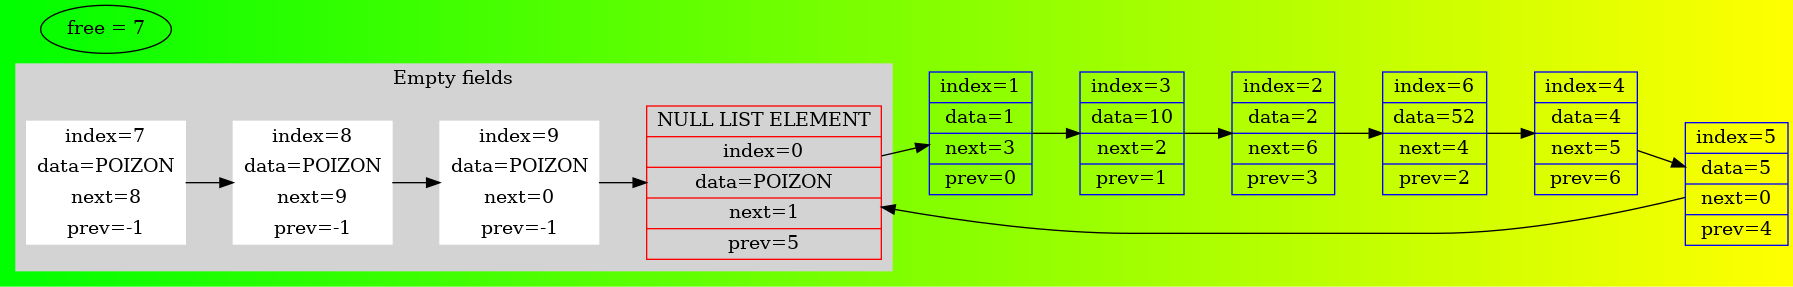
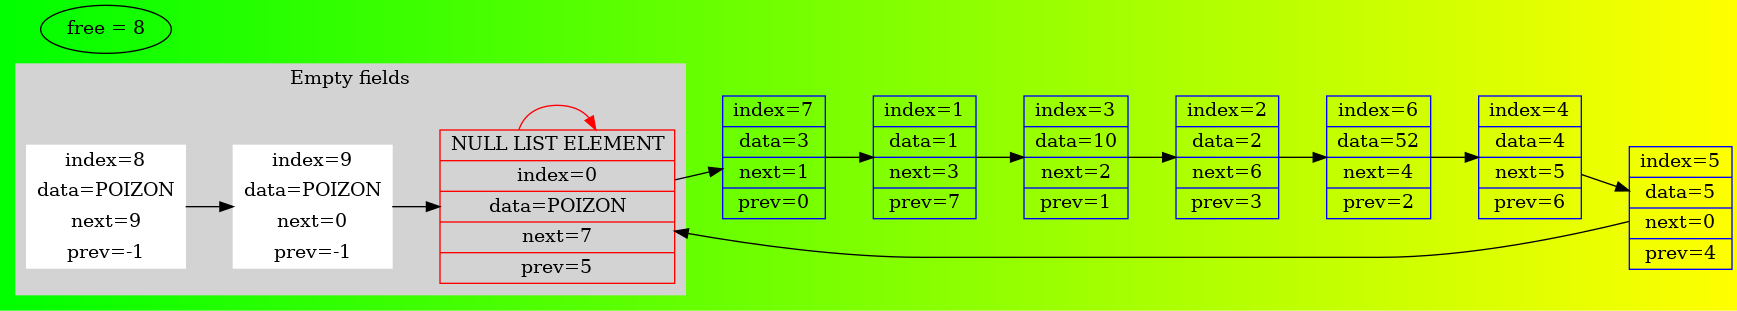
More functions

Changed region(s): [[0.0, 0.0, 1.0, 0.9756], [0.8705, 0.7526, 0.9016, 0.7805], [0.5285, 0.7526, 0.5596, 0.7805]]

diff --git a/list.cpp b/list.cpp
@@ -29,10 +29,12 @@ List C_tor()
 
 void Fill_in(List* list)
 {
+    assert(list);
+
     for(size_t i = 1; i < list -> size - 1; i++)
     {
         list -> node[i].data = POIZON;
-        list -> node[i].next = i + 1;
+        list -> node[i].next = (int)i + 1;
         list -> node[i].prev = -1;
     }
 
@@ -42,7 +44,7 @@ void Fill_in(List* list)
 }
 
 
-Errors Push_elem_after_num(List* list, list_elem new_elem, size_t num)
+Errors Insert_elem_after_num(List* list, list_elem new_elem, size_t num)
 {
     assert(list);
 
@@ -57,11 +59,11 @@ Errors Push_elem_after_num(List* list, list_elem new_elem, size_t num)
 
     list -> node[new_elem_pos].next = list -> node[num].next;
 
-    list -> node[new_elem_pos].prev = num;
+    list -> node[new_elem_pos].prev = (list_elem)num;
 
-    list -> node[num].next = new_elem_pos;
+    list -> node[num].next = (list_elem)new_elem_pos;
 
-    list -> node[list -> node[new_elem_pos].next].prev = new_elem_pos;
+    list -> node[list -> node[new_elem_pos].next].prev = (list_elem)new_elem_pos;
 
     list -> free = next_free_val;
 
@@ -70,25 +72,79 @@ Errors Push_elem_after_num(List* list, list_elem new_elem, size_t num)
     return ALL_OKEY;
 }
 
-Errors Push_first_elem(List* list, list_elem new_elem)
+Errors Insert_first_elem(List* list, list_elem new_elem)
 {
-    Push_elem_after_num(list, new_elem, 0);
+    assert(list);
+
+    Insert_elem_after_num(list, new_elem, 0);
 
     return ALL_OKEY;
 }
 
-Errors Push_elem_before_num(List* list, list_elem new_elem, size_t num)
+Errors Insert_elem_before_num(List* list, list_elem new_elem, size_t num)
 {
-    Push_elem_after_num(list, new_elem, list -> node[num].prev);
+    assert(list);
+
+    Insert_elem_after_num(list, new_elem, list -> node[num].prev);
 
     return ALL_OKEY;
 }
 
-Errors Push_last_elem(List* list, list_elem new_elem)
+Errors Insert_last_elem(List* list, list_elem new_elem)
 {
-    Push_elem_before_num(list, new_elem, 0);
+    assert(list);
+
+    Insert_elem_before_num(list, new_elem, 0);
 
     return ALL_OKEY;
+}
+
+int* Ptr_on_elem_after_num(List* list, size_t num)
+{
+    assert(list);
+    return &(list -> node[num].next);
+}
+
+int* Ptr_on_elem_before_num(List* list, size_t num)
+{
+    assert(list);
+    return &(list -> node[num].prev);
+}
+
+int* Ptr_on_last_elem(List* list)
+{
+    assert(list);
+    return &(list -> node[0].prev);
+}
+
+
+int* Ptr_on_first_elem(List* list)
+{
+    assert(list);
+    return &(list -> node[0].next);
+}
+
+void Search_elem_by_val(List* list, unsigned int val)
+{
+    assert(list);
+
+    int flag = 0;
+    size_t num_elem = 1;
+    int i = list -> node[0].next;
+
+    while(list -> node[i].next != 0)
+    {
+        if(list -> node[i].data == val)
+        {
+            printf("Your element index: %d\nYour element num in turn: %zu\n", i, num_elem);
+            ++flag;
+        }
+        ++num_elem;
+        i = list -> node[i].next;
+    }
+
+    if(flag == 0)
+        printf("Your element is not in list\n");
 }
 
 Errors Pop_elem(List* list, size_t num)
@@ -104,7 +160,7 @@ Errors Pop_elem(List* list, size_t num)
 
     list -> node[list -> node[num].next].prev = list -> node[num].prev;
 
-    list -> node[num].next = list -> free;
+    list -> node[num].next = (list_elem)list -> free;
 
     list -> free = num;
 
@@ -115,52 +171,58 @@ Errors Pop_elem(List* list, size_t num)
     return ALL_OKEY;
 }
 
-
 void dump(List* list)
 {
-    FILE* f_dot = fopen("list.dot", "wr");
-
+    printf("-----------------LIST------------------\n");
     for(size_t i = 0; i < list -> tail; i++)
     {
         if(list -> node[i].data == POIZON)
-            fprintf(f_dot, "%d ", 0);
+            printf("    %d  ", 0);
         else
-            fprintf(f_dot, "node[%d ", list -> node[i].data);
+            printf("    %d  ", list -> node[i].data);
     }
 
-    putc('\n', f_dot);
+    putchar('\n');
 
     for(size_t i = 0; i < list -> tail; i++)
     {
-        fprintf(f_dot, "%d ", list -> node[i].next);
+        printf("    %d  ", list -> node[i].next);
     }
 
-    putc('\n', f_dot);
+    putchar('\n');
 
     for(size_t i = 0; i < list -> tail; i++)
     {
         if(list -> node[i].prev < 0)
-            fprintf(f_dot, "%d ", list -> node[i].prev);
+            printf("   %d  ", list -> node[i].prev);
         else
-            fprintf(f_dot, "%d ", list -> node[i].prev);
+            printf("    %d  ", list -> node[i].prev);
     }
 
-    putc('\n', f_dot);
+    putchar('\n');
 
-    // printf("head = %zu\ntail = %zu\nfree = %zu\n", list -> head, list -> tail, list -> free);
+    printf("head = %zu\ntail = %zu\nfree = %zu\n", list -> head, list -> tail, list -> free);
 
-    fclose(f_dot);
+    printf("-----------------LIST------------------\n\n\n");
 }
 
 void dump_to_dot(List* list)
 {
-    FILE* f_dot = fopen("output/list.dot", "wr");
+    FILE* f_dot = fopen("output/list.dot", "w");
+
+    assert(f_dot);
+    assert(list);
+    if(ferror(f_dot))
+        fprintf(stderr, "FILE OPEN ERROR!!!\n");
+
 
     fprintf(f_dot, "digraph LIST {\n\trankdir=LR;\n\tbgcolor = \"green:yellow\";\n");
 
-    fprintf(f_dot, "\tnode0 [shape=record, color=red, label=\" NULL LIST ELEMENT | index=0 | data=POIZON | next=%d | prev=%d \" ];\n",
-                                                                                            list -> node[0].next,
-                                                                                            list -> node[0].prev);
+    fprintf(f_dot, "\tnode0 [shape=record, color=red,"
+                   "label=\" NULL LIST ELEMENT | index=0 | data=POIZON | next=%d | prev=%d \" ];\n"
+                   "\tnode0-> node0[color=red];\n",
+                   list -> node[0].next, list -> node[0].prev);
+
     size_t i = 0;
 
     while(list -> node[i].next != 0)
@@ -169,23 +231,23 @@ void dump_to_dot(List* list)
 
         i = list -> node[i].next;
 
-        fprintf(f_dot, "\tnode%zu [shape=record, color=blue, label=\" index=%d | data=%d | next=%d | prev=%d \" ];\n", i, i,
-                                                                                                    list -> node[i].data,
-                                                                                                    list -> node[i].next,
-                                                                                                    list -> node[i].prev);
+        fprintf(f_dot, "\tnode%zu [shape=record, color=blue,"
+                       "label=\" index=%d | data=%d | next=%d | prev=%d \" ];\n",
+                       i, i, list -> node[i].data, list -> node[i].next, list -> node[i].prev);
     }
 
-    fprintf(f_dot, "\tsubgraph cluster0 {\n\t\tnode [style=filled,color=white];\n\t\tstyle=filled;\n\t\tcolor=lightgrey;\n");
+    fprintf(f_dot, "\tsubgraph cluster0 {\n\t\tnode [style=filled,color=white];\n"
+                   "\t\tstyle=filled;\n\t\tcolor=lightgrey;\n");
 
     for(size_t i = 0; i < list -> size; i++)
     {
         if(list -> node[i].prev == -1)
         {
-            fprintf(f_dot, "\t\tnode%zu -> node%zu;\n", i, list -> node[i].next);
+            fprintf(f_dot, "\t\tnode%zu -> node%d;\n", i, list -> node[i].next);
 
-            fprintf(f_dot, "\t\tnode%zu [shape=record, color=white, label=\" index=%d | data=POIZON | next=%d | prev=%d \" ];\n", i, i,
-                                                                                                    list -> node[i].next,
-                                                                                                    list -> node[i].prev);
+            fprintf(f_dot, "\t\tnode%zu [shape=record, color=white,"
+                           "label=\" index=%zu | data=POIZON | next=%d | prev=%d \" ];\n",
+                           i, i, list -> node[i].next, list -> node[i].prev);
         }
     }
 
@@ -202,8 +264,10 @@ void dump_to_dot(List* list)
 
 int Adress_not_list_elem(size_t num, List* list)
 {
-    if(list -> size < num && list -> node[num].prev != -1)
-        printf("\n\nABOBUS ERROR YOU HAVE NOT %d ELEMENT!!!\n\n\n", num);
+    assert(list);
+
+    if(list -> size < num || list -> node[num].prev != -1)
+        printf("\n\nABOBUS ERROR YOU HAVE NOT %zu ELEMENT!!!\n\n\n", num);
         return 0;
     return 1;
 }

diff --git a/list.h b/list.h
@@ -2,7 +2,6 @@
 
 typedef int list_elem;
 
-
 struct List_node
 {
     list_elem data;
@@ -34,9 +33,9 @@ void Fill_in(List* list);
 
 // Errors verificator();
 
-Errors Push_first_elem(List* list, list_elem new_elem);
+Errors Insert_first_elem(List* list, list_elem new_elem);
 
-Errors Push_last_elem(List* list, list_elem new_elem);
+Errors Insert_last_elem(List* list, list_elem new_elem);
 
 int Adress_not_list_elem(size_t num, List* list);
 
@@ -46,9 +45,19 @@ Errors Pop_elem(List* list, size_t num);
 
 void dump_to_dot(List* list);
 
-Errors Push_elem_after_num(List* list, list_elem new_elem, size_t num);
+void Search_elem_by_val(List* list, unsigned int val);
 
-Errors Push_elem_before_num(List* list, list_elem new_elem, size_t num);
+int* Ptr_on_elem_after_num(List* list, size_t num);
+
+int* Ptr_on_elem_before_num(List* list, size_t num);
+
+int* Ptr_on_last_elem(List* list);
+
+int* Ptr_on_first_elem(List* list);
+
+Errors Insert_elem_after_num(List* list, list_elem new_elem, size_t num);
+
+Errors Insert_elem_before_num(List* list, list_elem new_elem, size_t num);
 
 void dump(List* list);
 

diff --git a/main.cpp b/main.cpp
@@ -6,18 +6,26 @@ int main()
 {
     List list = C_tor();
 
-    for(int i = 0; i < 5; i++)
+    for(size_t i = 0; i < 5; i++)
     {
-        Push_elem_after_num(&list, i + 1, i);
+        Insert_elem_after_num(&list, (list_elem)i + 1, i);
     }
 
-    Push_elem_after_num(&list, 52, 3);
+    Insert_elem_after_num(&list, 52, 3);
 
     Pop_elem(&list, 3);
 
-    Push_elem_before_num(&list, 10, 2);
+    Insert_elem_before_num(&list, 10, 2);
 
     dump_to_dot(&list);
+
+    Insert_first_elem(&list, 3);
+
+    dump_to_dot(&list);
+
+    Search_elem_by_val(&list, 52);
+
+    printf("Ptr on first elem: %p\n", Ptr_on_first_elem);
 
     D_tor(&list);
 
